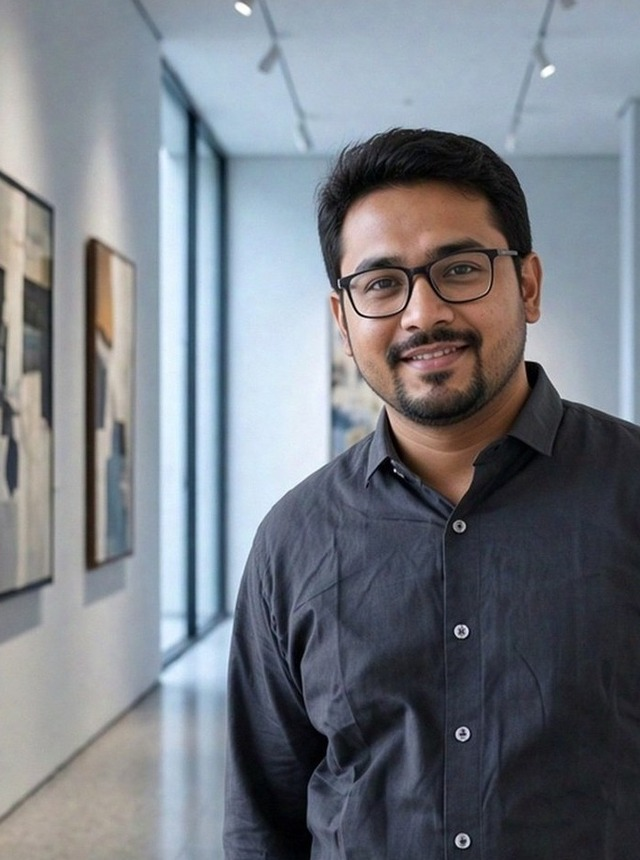
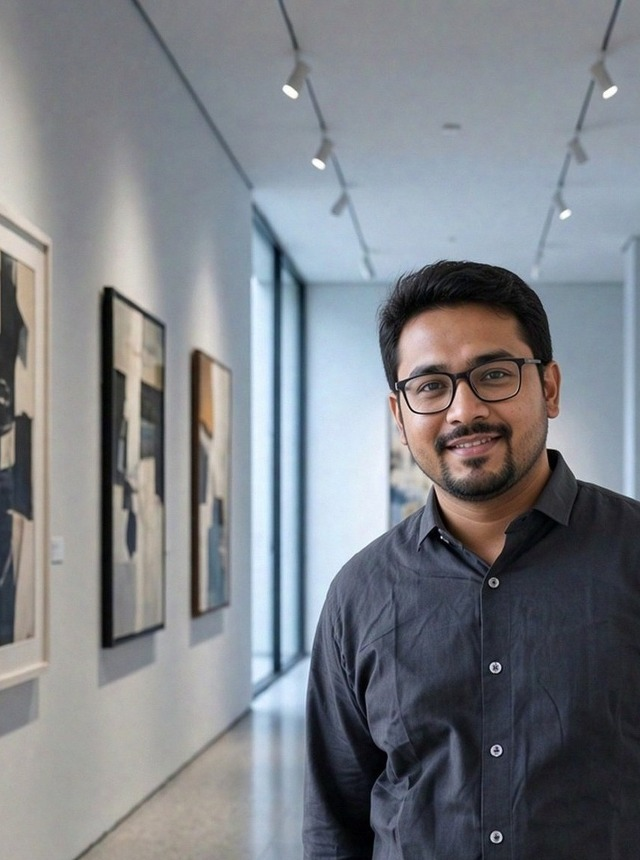
Pull back Rohan Desai DP to half-body framing (desk137)
Further crop-only pullback from the desk133 Flutter master after
desk136 was still too tight. Near-full-frame framing lands faceH
~0.22 (Kabir-scale). Cache-bust app.js?v=desk137 and JPEG ?v=10.

diff --git a/js/app.js b/js/app.js
@@ -813,7 +813,7 @@ const MENTORS = [
   { name: "Vikram Singh", role: "Price action coach", tag: "Swing trading", img: "https://images.unsplash.com/photo-1506794778202-cad84cf45f1d?auto=format&fit=crop&w=640&h=860&q=80" },
   { name: "Ananya Rao", role: "Long-term investor", tag: "Portfolio", img: "https://images.unsplash.com/photo-1573496359142-b8d87734a5a2?auto=format&fit=crop&w=640&h=860&q=80" },
   { name: "Kabir Joshi", role: "Index options", tag: "Bank Nifty", img: "/img/instructors/kabir-joshi.jpg?v=9" },
-  { name: "Rohan Desai", role: "Fund researcher", tag: "Mutual funds", img: "/img/instructors/rohan-desai.jpg?v=9" },
+  { name: "Rohan Desai", role: "Fund researcher", tag: "Mutual funds", img: "/img/instructors/rohan-desai.jpg?v=10" },
   { name: "Priya Nair", role: "Asset allocation", tag: "SIP lab", img: "https://images.unsplash.com/photo-1580489944761-15a19d654956?auto=format&fit=crop&w=640&h=860&q=80" },
   { name: "Meera Iyer", role: "Options coach", tag: "Defined risk", img: "https://images.unsplash.com/photo-1438761681033-6461ffad8d80?auto=format&fit=crop&w=640&h=860&q=80" }
 ];
@@ -4922,6 +4922,7 @@ function traderIcon(kind) {
 /* cache-bust desk134: Rohan Desai DP center face for circle/avatar crop /img/instructors/rohan-desai.jpg?v=7 */
 /* cache-bust desk135: edge purge after CF poison on #86 (app.js?v=desk134 held desk133; Rohan JPEG ?v=7 held v6) /img/instructors/rohan-desai.jpg?v=8 */
 /* cache-bust desk136: Rohan Desai DP widen framing (crop-only from desk133 flutter) /img/instructors/rohan-desai.jpg?v=9 */
+/* cache-bust desk137: Rohan Desai DP further pullback half-body (crop-only desk133 flutter) /img/instructors/rohan-desai.jpg?v=10 */
 function traderCardHTML(m, i, opts = {}) {
   const title = String(m.role || m.tag || "Mentor").trim();
   const cloneAttrs = opts.clone ? ' tabindex="-1" aria-hidden="true"' : "";

diff --git a/account.html b/account.html
@@ -17,7 +17,7 @@
   <div id="site-header"></div>
   <main id="accountRoot" class="ld-page"></main>
   <div id="site-footer"></div>
-  <script src="/js/app.js?v=desk136" defer></script>
+  <script src="/js/app.js?v=desk137" defer></script>
   <script src="/js/lms.js?v=cert2" defer></script>
 </body>
 </html>

diff --git a/learning.html b/learning.html
@@ -17,7 +17,7 @@
   <div id="site-header"></div>
   <main id="myLearning" class="ld-page"></main>
   <div id="site-footer"></div>
-  <script src="/js/app.js?v=desk136" defer></script>
+  <script src="/js/app.js?v=desk137" defer></script>
   <script src="/js/lms.js?v=cert2" defer></script>
 </body>
 </html>

diff --git a/course.html b/course.html
@@ -22,7 +22,7 @@
     </div>
   </main>
   <div id="site-footer"></div>
-  <script src="/js/app.js?v=desk136" defer></script>
+  <script src="/js/app.js?v=desk137" defer></script>
   <script src="/js/lms.js?v=cert2" defer></script>
   <script src="/js/drm.js?v=desk29" defer></script>
 </body>

diff --git a/contact.html b/contact.html
@@ -48,7 +48,7 @@
   </main>
   <div id="site-footer"></div>
   <script src="/js/help-faqs.js?v=faq1" defer></script>
-  <script src="/js/app.js?v=desk136" defer></script>
+  <script src="/js/app.js?v=desk137" defer></script>
   <script src="/js/lms.js" defer></script>
 </body>
 </html>

diff --git a/certificate.html b/certificate.html
@@ -19,7 +19,7 @@
     <div id="certRoot"></div>
   </main>
   <div id="site-footer"></div>
-  <script src="/js/app.js?v=desk136" defer></script>
+  <script src="/js/app.js?v=desk137" defer></script>
   <script src="/js/lms.js?v=cert2" defer></script>
 </body>
 </html>

diff --git a/control.html b/control.html
@@ -253,7 +253,7 @@
         loading = true;
         busy(true);
         var files = [
-          "/js/app.js?v=desk136",
+          "/js/app.js?v=desk137",
           "/js/lms.js",
           "/js/admin-core.js?v=desk8",
           "/js/admin.js?v=drm5",

diff --git a/index.html b/index.html
@@ -415,7 +415,7 @@
     </section>
   </main>
   <div id="site-footer"></div>
-  <script src="/js/app.js?v=desk136" defer></script>
+  <script src="/js/app.js?v=desk137" defer></script>
   <script src="/js/lms.js?v=cert2" defer></script>
 </body>
 </html>

diff --git a/live-room.html b/live-room.html
@@ -22,7 +22,7 @@
 </head>
 <body class="live-room-page">
   <div id="liveRoom"></div>
-  <script src="/js/app.js?v=desk136" defer></script>
+  <script src="/js/app.js?v=desk137" defer></script>
   <script src="/js/lms.js" defer></script>
 </body>
 </html>

diff --git a/nifty-options.html b/nifty-options.html
@@ -44,7 +44,7 @@
     </section>
   </main>
   <div id="site-footer"></div>
-  <script src="/js/app.js?v=desk136" defer></script>
+  <script src="/js/app.js?v=desk137" defer></script>
   <script src="/js/lms.js?v=cert2" defer></script>
 </body>
 </html>

diff --git a/option-trading-course.html b/option-trading-course.html
@@ -44,7 +44,7 @@
     </section>
   </main>
   <div id="site-footer"></div>
-  <script src="/js/app.js?v=desk136" defer></script>
+  <script src="/js/app.js?v=desk137" defer></script>
   <script src="/js/lms.js?v=cert2" defer></script>
 </body>
 </html>

diff --git a/share-market-course-in-hindi.html b/share-market-course-in-hindi.html
@@ -42,7 +42,7 @@
     </section>
   </main>
   <div id="site-footer"></div>
-  <script src="/js/app.js?v=desk136" defer></script>
+  <script src="/js/app.js?v=desk137" defer></script>
   <script src="/js/lms.js?v=cert2" defer></script>
 </body>
 </html>
